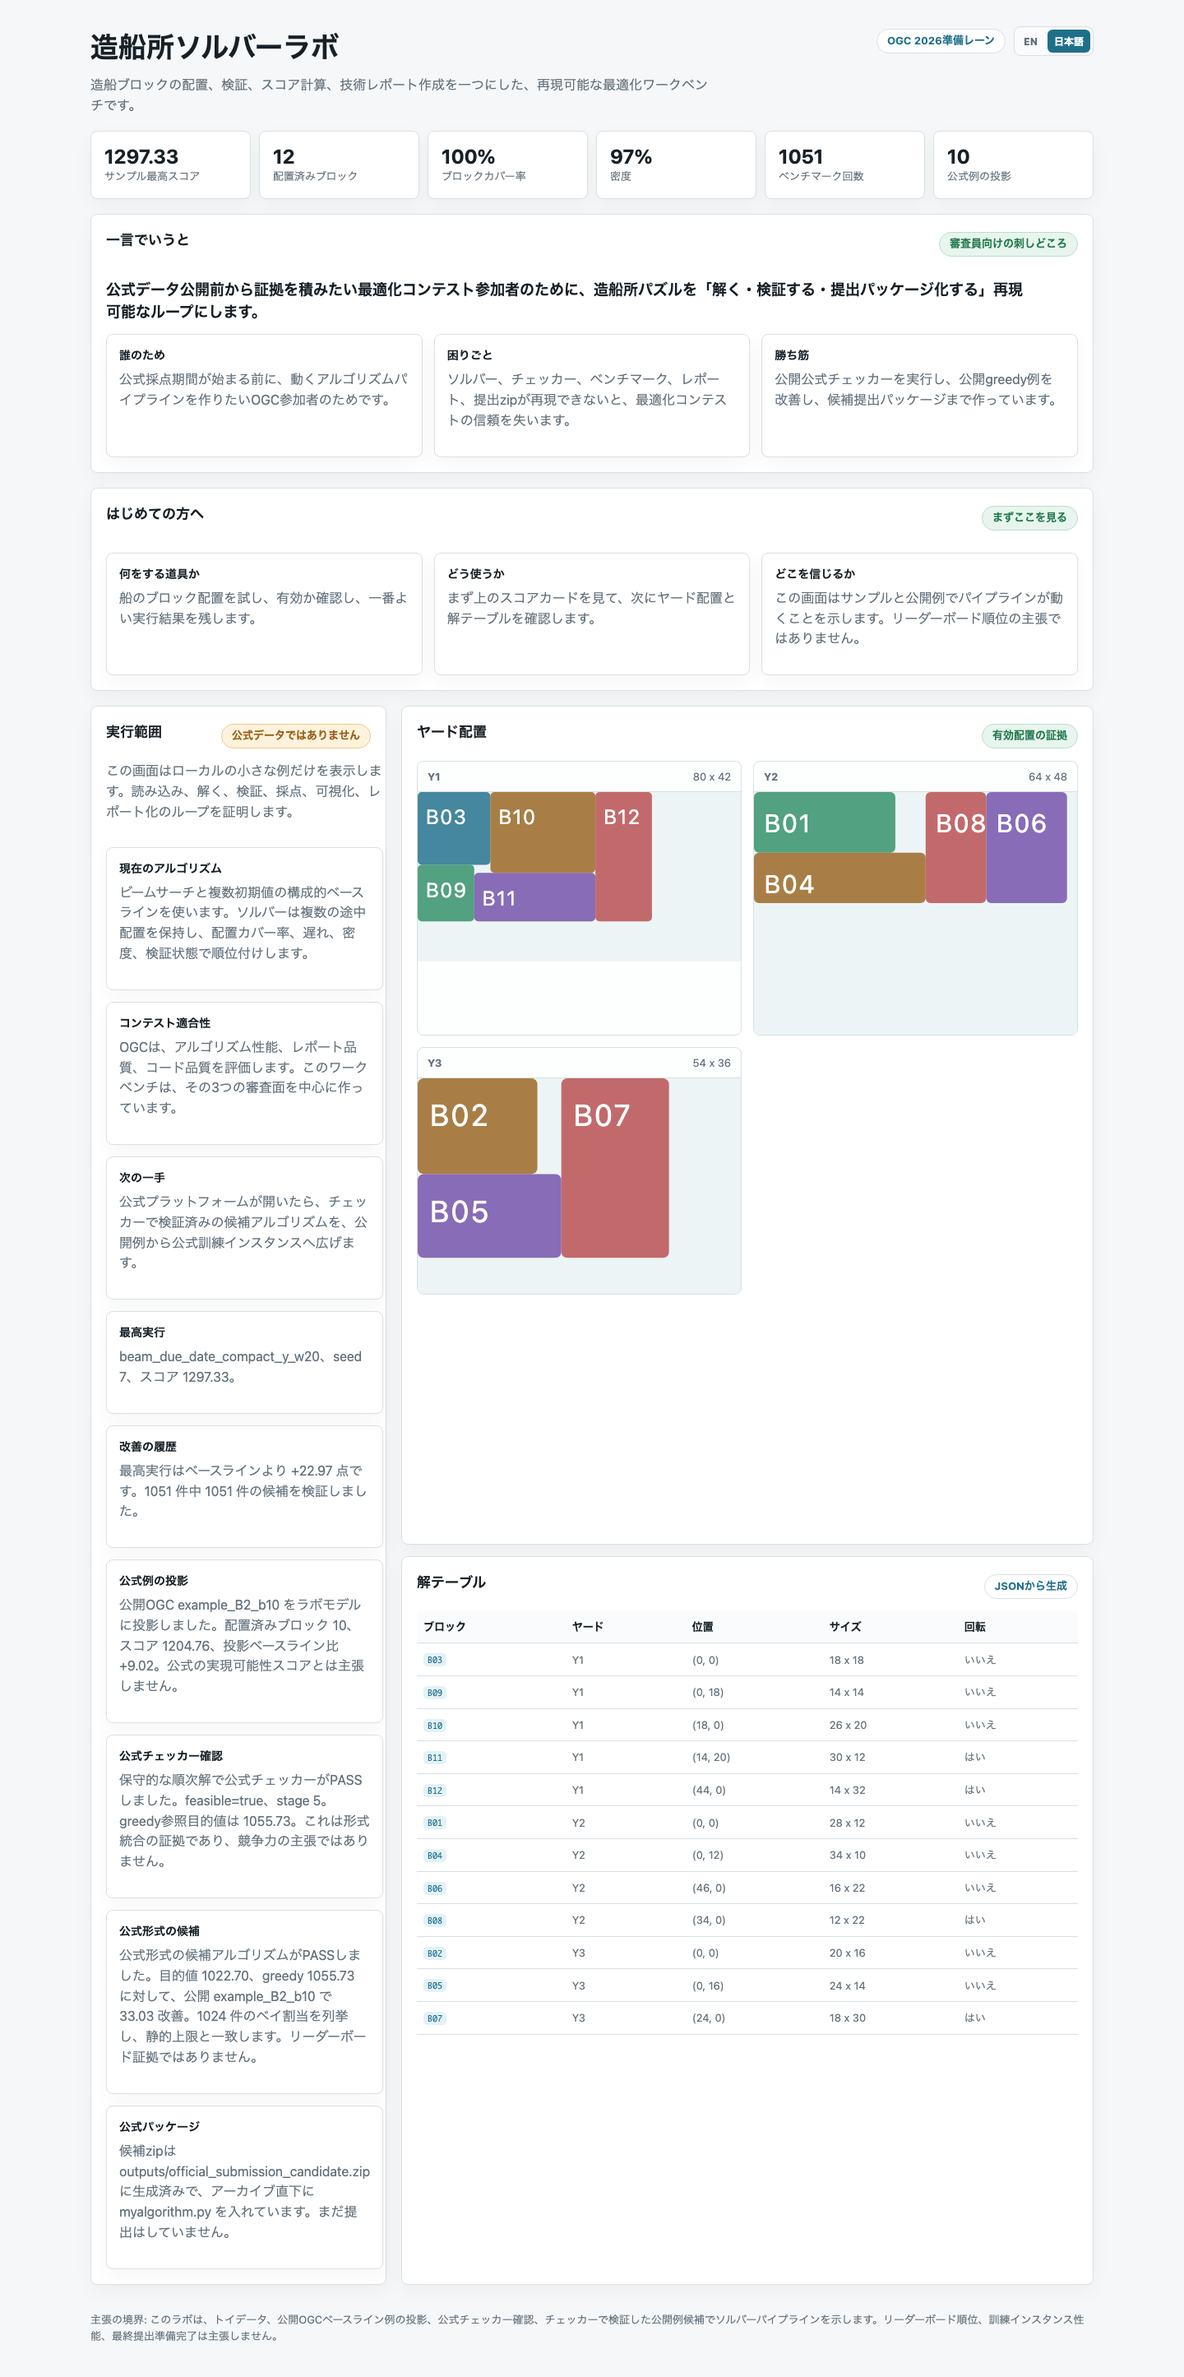
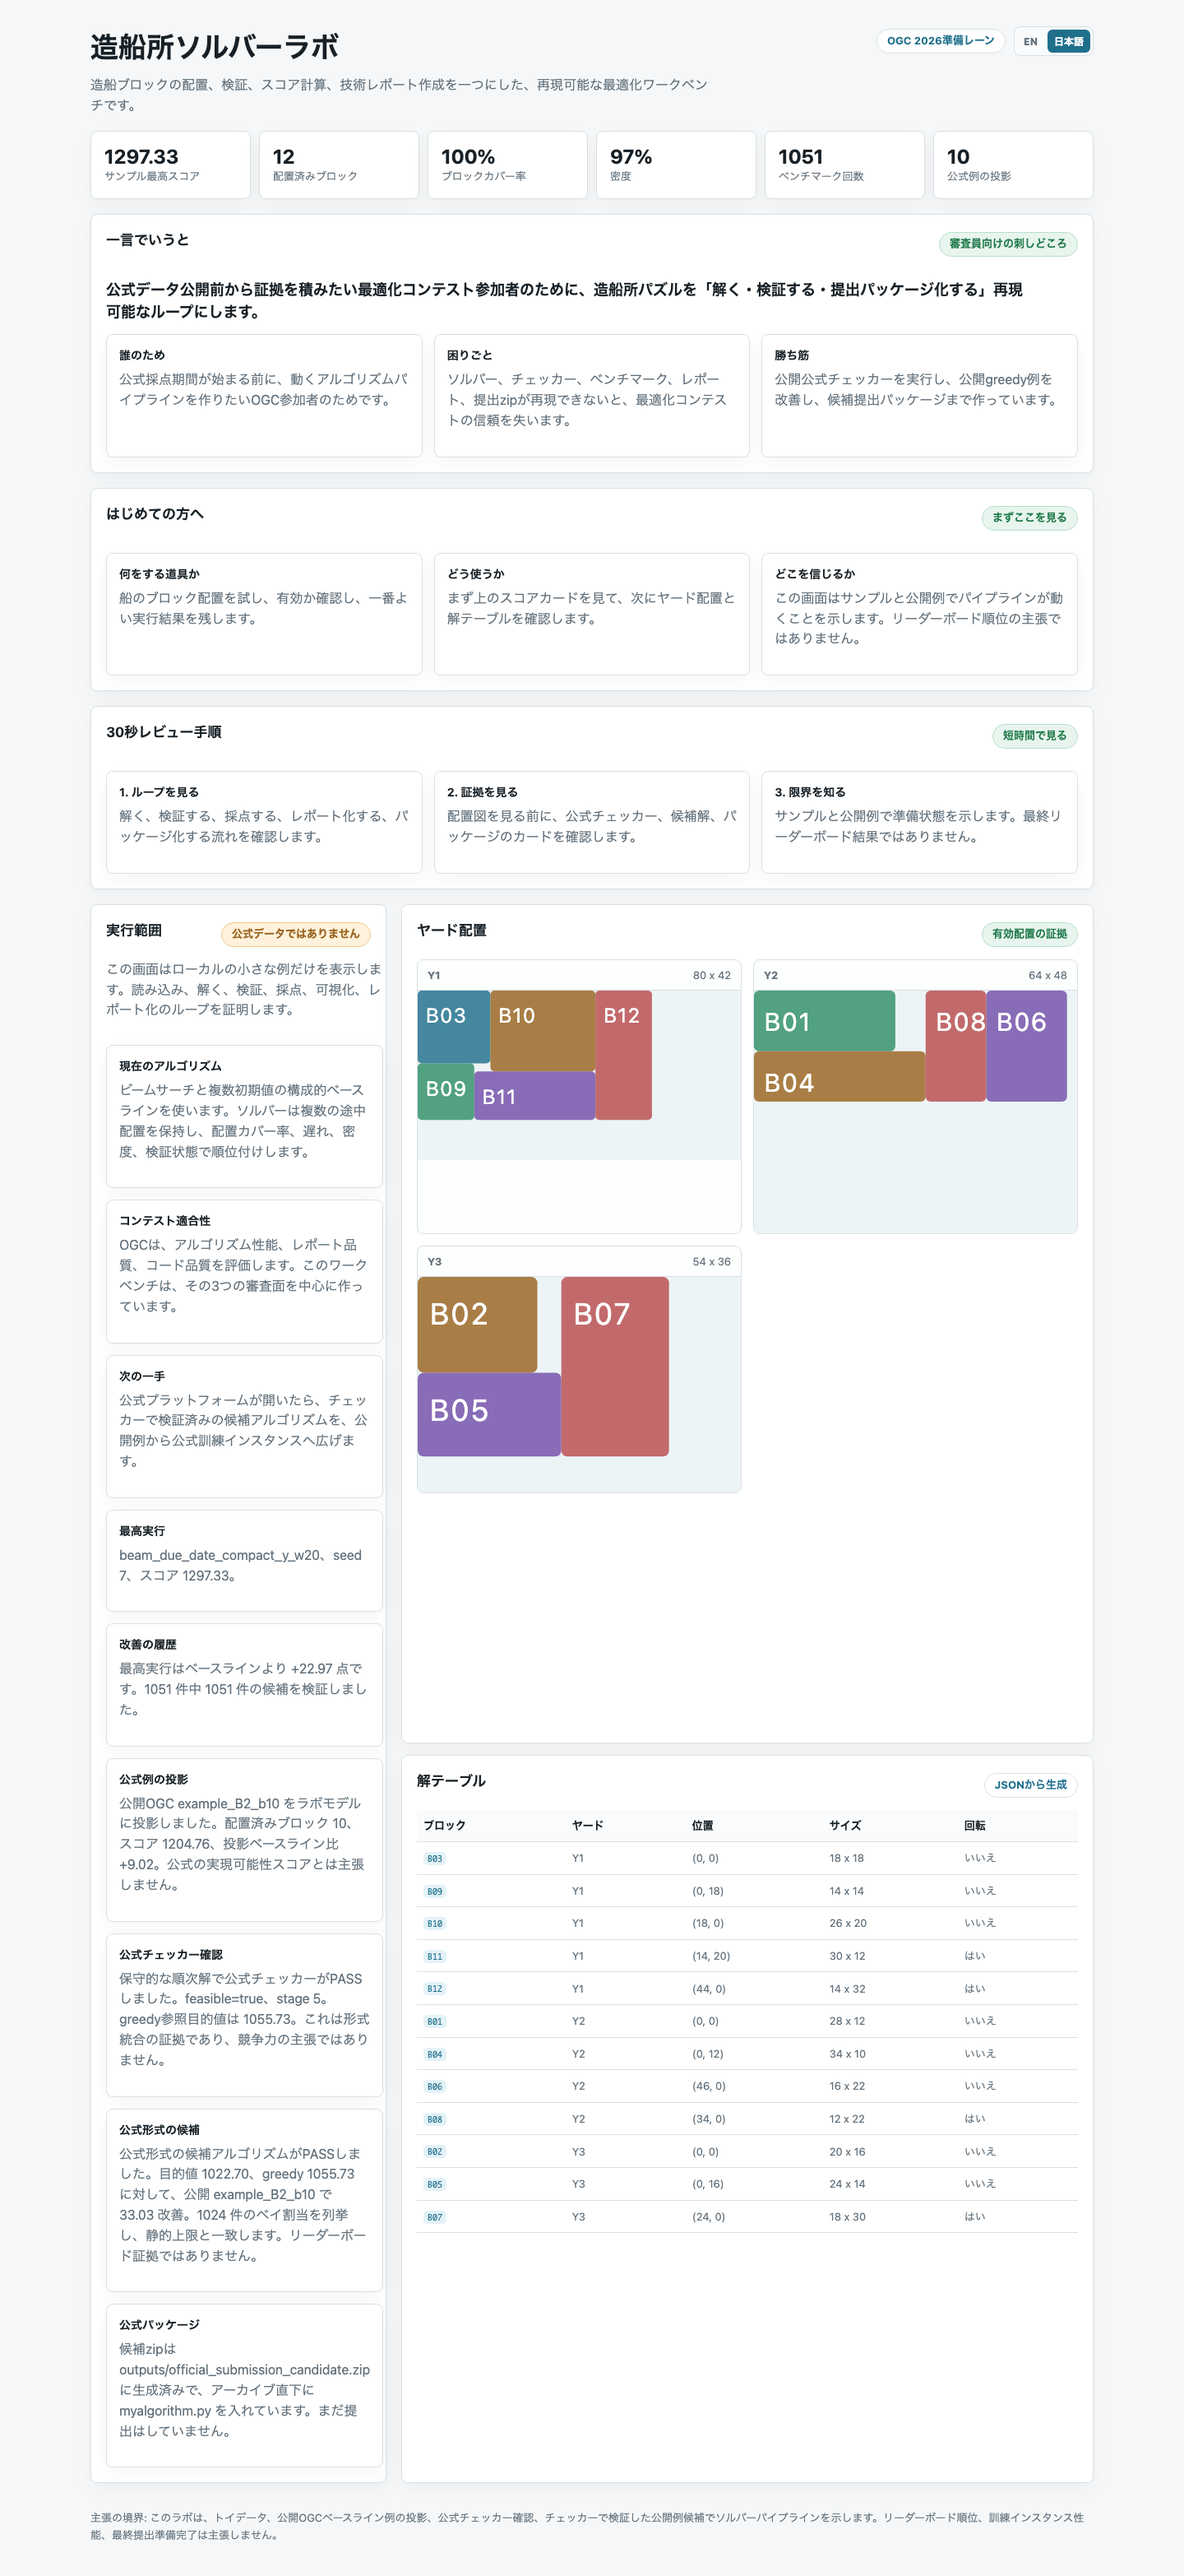
Add 30-second review path

diff --git a/index.html b/index.html
@@ -222,6 +222,18 @@
       </div>
     </section>
 
+    <section class="panel pitch-strip" aria-label="30 second review path">
+      <div class="panel-title">
+        <h2>30-Second Review Path</h2>
+        <span class="pill good">review fast</span>
+      </div>
+      <div class="grid-3">
+        <div class="card"><h3>1. See the loop</h3><p>Confirm the product is a solve, validate, score, report, and package workflow.</p></div>
+        <div class="card"><h3>2. Check proof</h3><p>Read the official checker, portfolio candidate, and package cards before judging the layout.</p></div>
+        <div class="card"><h3>3. Know the limit</h3><p>The app proves readiness on sample and public example data, not a final leaderboard result.</p></div>
+      </div>
+    </section>
+
     <aside class="panel">
       <div class="panel-title">
         <h2>Run Boundary</h2>
@@ -324,6 +336,14 @@
         'Read the score cards first, then check the yard layout and solution table.': 'まず上のスコアカードを見て、次にヤード配置と解テーブルを確認します。',
         'What to trust': 'どこを信じるか',
         'The current screen proves the pipeline on sample and public example data. It is not a leaderboard claim.': 'この画面はサンプルと公開例でパイプラインが動くことを示します。リーダーボード順位の主張ではありません。',
+        '30-Second Review Path': '30秒レビュー手順',
+        'review fast': '短時間で見る',
+        '1. See the loop': '1. ループを見る',
+        'Confirm the product is a solve, validate, score, report, and package workflow.': '解く、検証する、採点する、レポート化する、パッケージ化する流れを確認します。',
+        '2. Check proof': '2. 証拠を見る',
+        'Read the official checker, portfolio candidate, and package cards before judging the layout.': '配置図を見る前に、公式チェッカー、候補解、パッケージのカードを確認します。',
+        '3. Know the limit': '3. 限界を知る',
+        'The app proves readiness on sample and public example data, not a final leaderboard result.': 'サンプルと公開例で準備状態を示します。最終リーダーボード結果ではありません。',
         'Who': '誰のため',
         'Builders entering OGC who need a working algorithm pipeline before the official scoring window starts.': '公式採点期間が始まる前に、動くアルゴリズムパイプラインを作りたいOGC参加者のためです。',
         'Pain': '困りごと',

diff --git a/scripts/verify_japanese_support.py b/scripts/verify_japanese_support.py
@@ -11,8 +11,10 @@ required = [
     (readme_ja, "一言でいうと"),
     (readme_ja, "日本語対応"),
     (readme_ja, "はじめての使い方"),
+    (readme_ja, "30秒レビュー手順"),
     (readme_ja, "画面の見方"),
     (index, "はじめての方へ"),
+    (index, "30秒レビュー手順"),
     (readme_ja, "主張の境界"),
     (index, 'data-lang-button="ja"'),
     (index, "造船所ソルバーラボ"),

diff --git a/README.md b/README.md
@@ -50,6 +50,13 @@ Judge signal:
 This is not a decorative dashboard. It is an operating loop that proves the team can iterate quickly and keep the official checker green.
 ```
 
+## 30-Second Review Path
+
+1. Read the one-sentence pitch to understand the solve-validate-package loop.
+2. Open the live app and scan the top proof cards.
+3. Check the official checker, portfolio candidate, and package proof cards.
+4. Confirm the boundary: this is readiness proof on sample and public example data, not a final leaderboard claim.
+
 ## Why This Exists
 
 Optimization contests are won by iteration speed:
